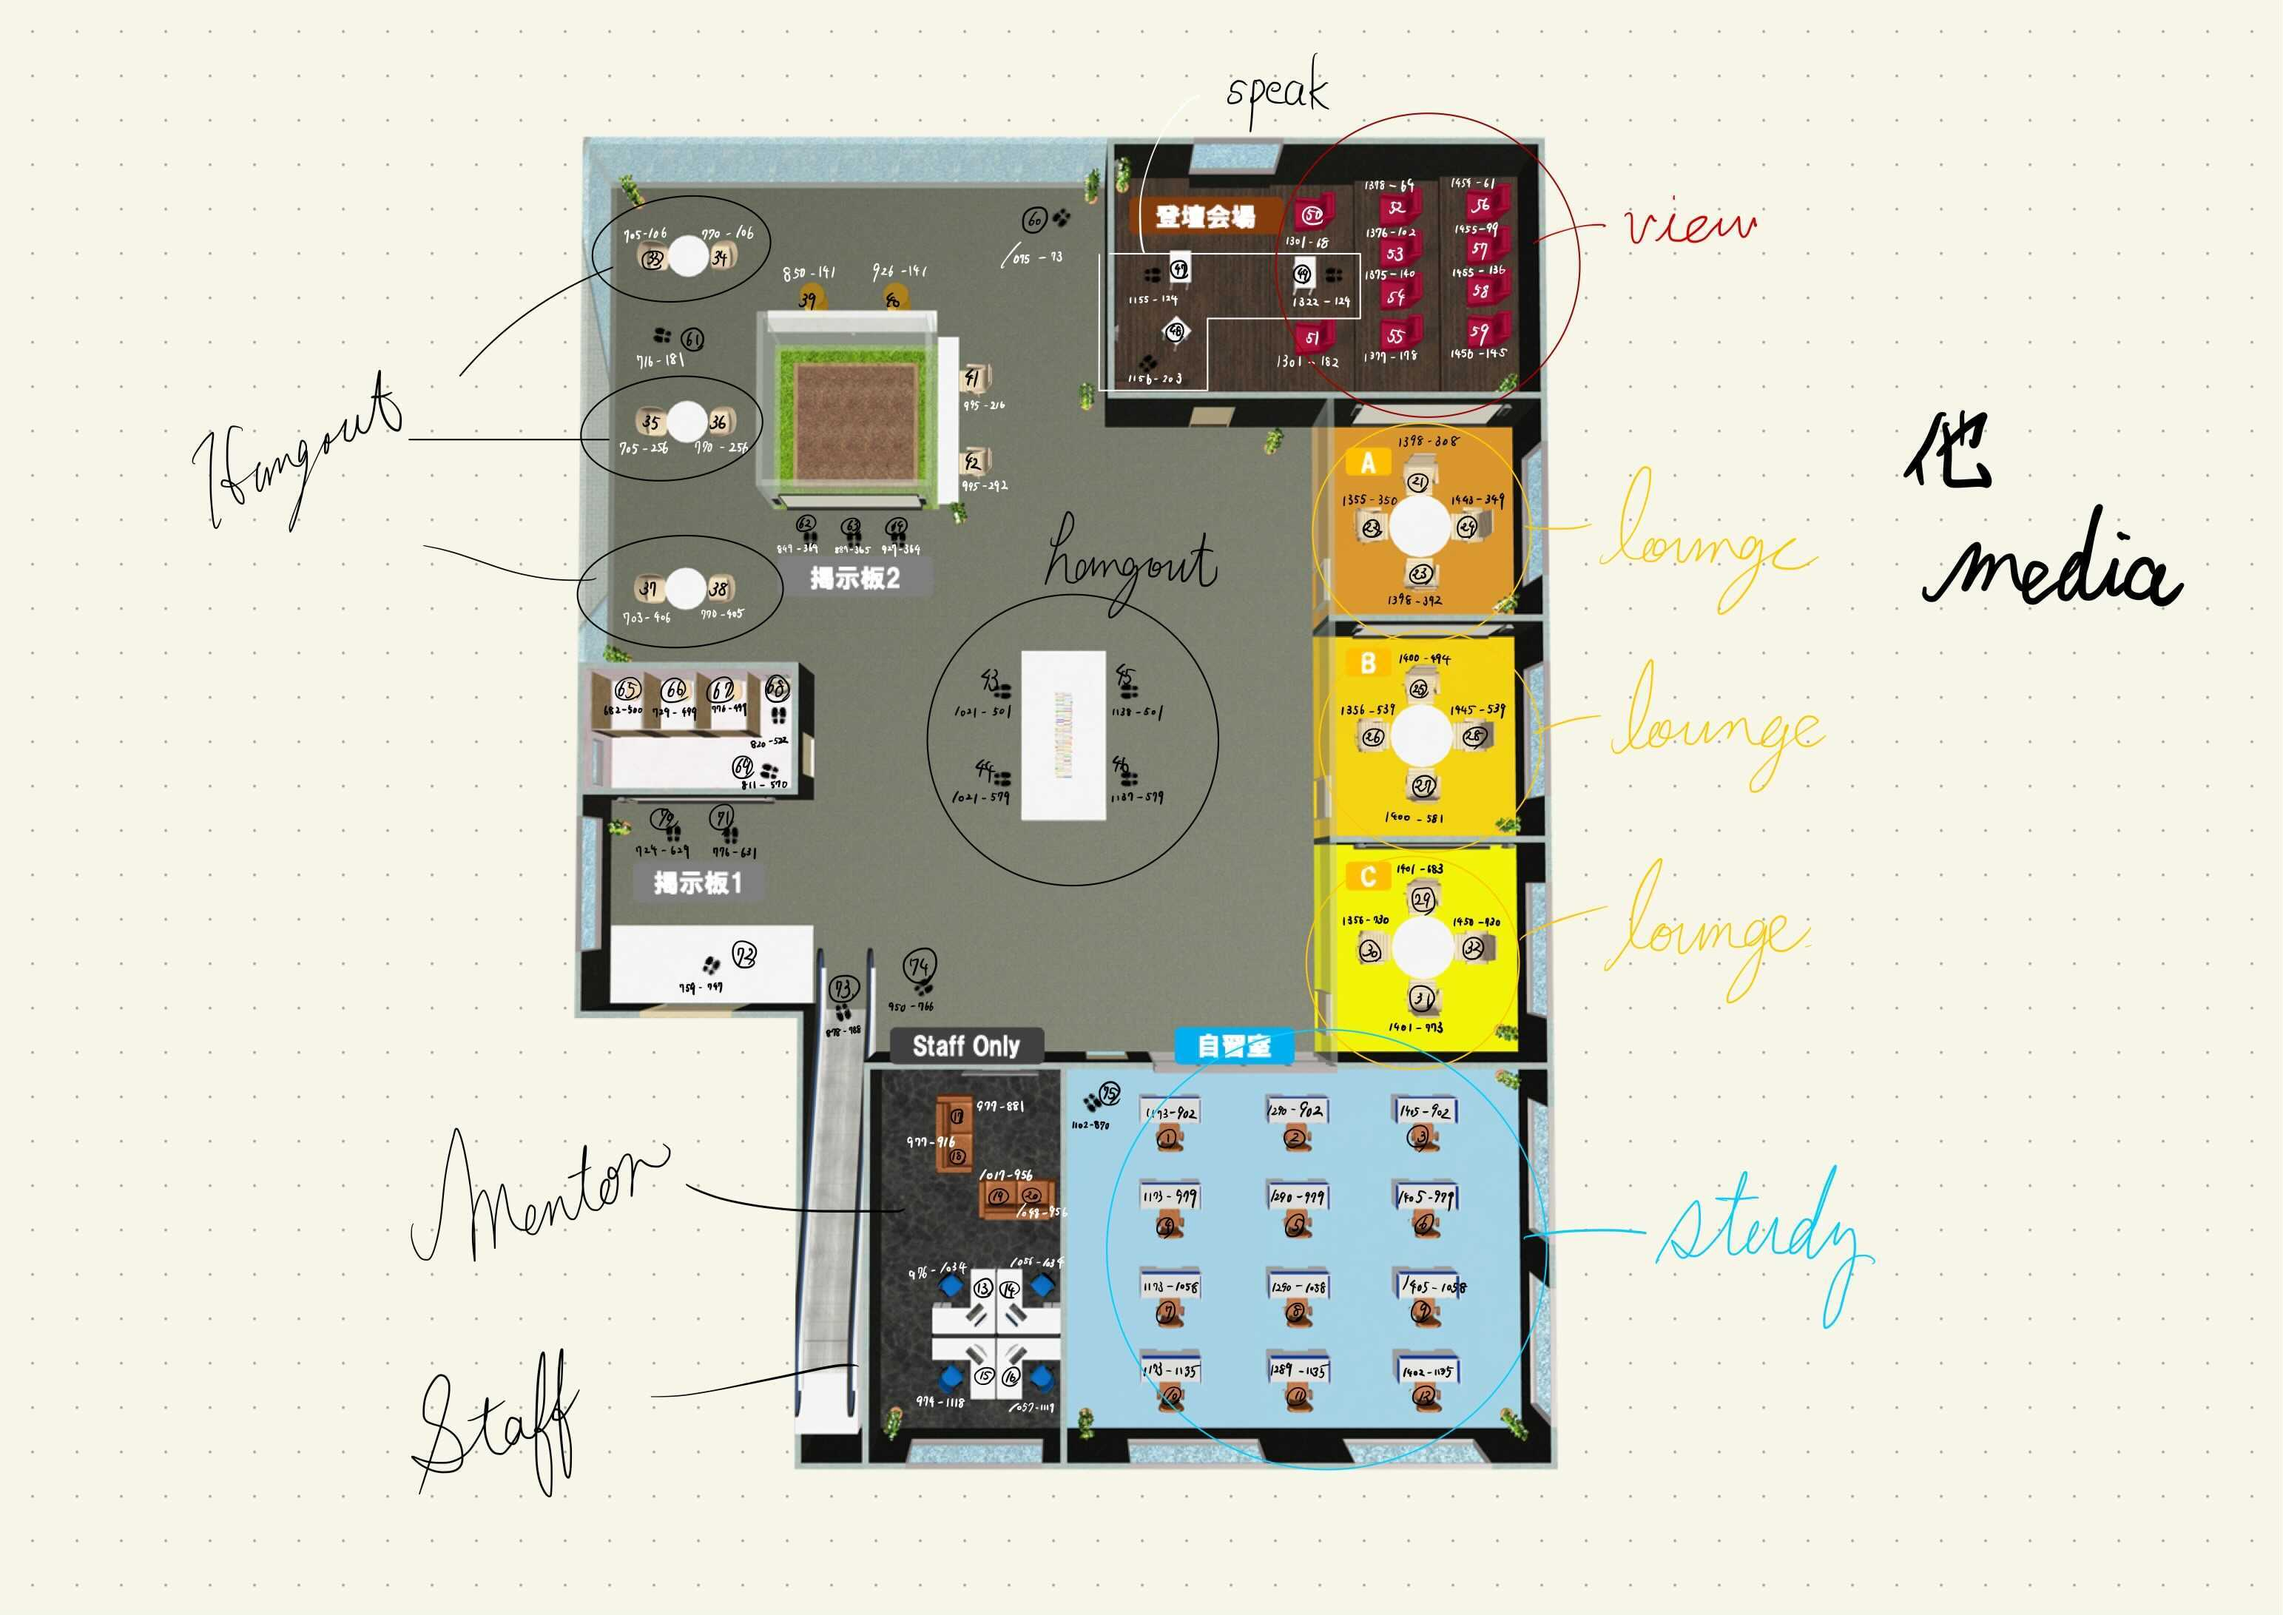
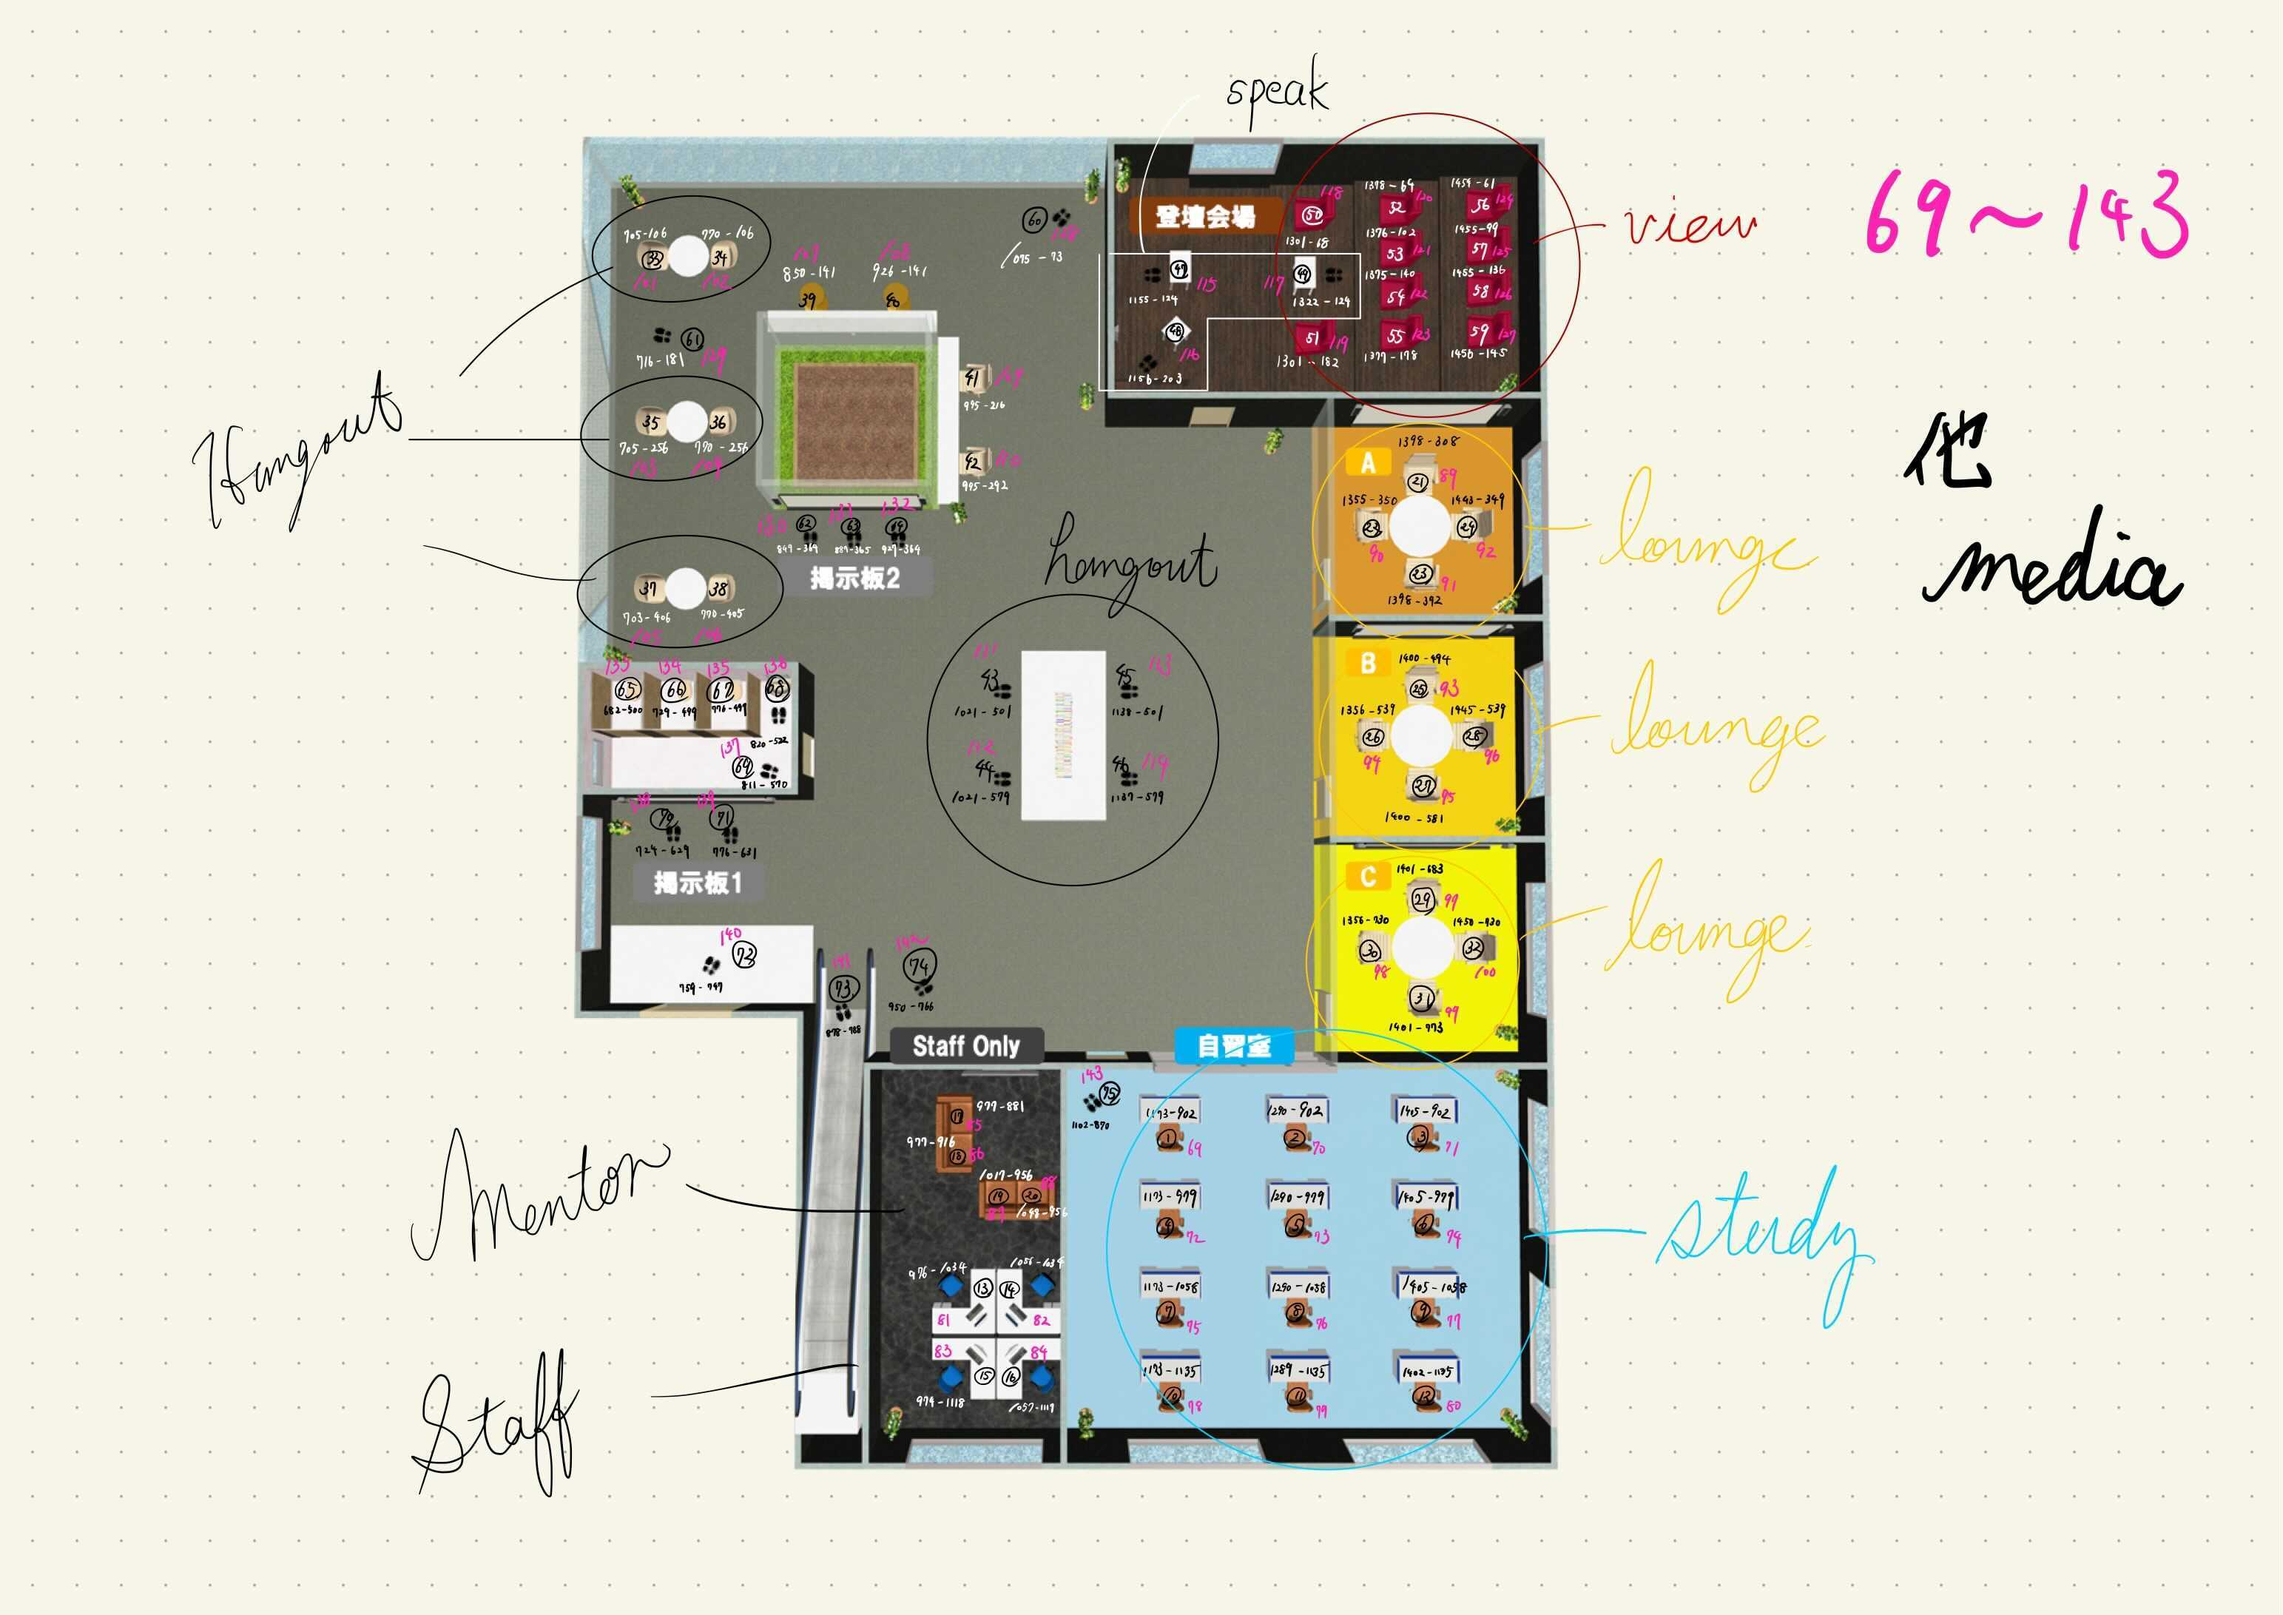
部屋データの修正

diff --git a/database/seeders/rooms/Room5Seeder.php b/database/seeders/rooms/Room5Seeder.php
@@ -1544,5 +1544,24 @@ class Room5Seeder extends Seeder
 
         // 座席196作成
         Seat::create(['section_id' => $created_section->id, 'name' => $seat['name'], 'size' => $seat['size'], 'position' => $seat['position'], 'role' => $seat['role']]);
+
+
+
+
+
+        // 区画41作成-その他
+        $created_section = Section::create(['room_id' => $created_room->id, 'name' => 'その他']);
+
+        //*** 座席197データ ***//
+        $seat = ['name' => '自習室上', 'size' => 30, 'position' => ['x' => 352, 'y' => 729], 'role' => 'media'];
+
+        // 座席197作成
+        Seat::create(['section_id' => $created_section->id, 'name' => $seat['name'], 'size' => $seat['size'], 'position' => $seat['position'], 'role' => $seat['role']]);
+
+        //*** 座席198データ ***//
+        $seat = ['name' => '自習室下', 'size' => 30, 'position' => ['x' => 344, 'y' => 1035], 'role' => 'media'];
+
+        // 座席198作成
+        Seat::create(['section_id' => $created_section->id, 'name' => $seat['name'], 'size' => $seat['size'], 'position' => $seat['position'], 'role' => $seat['role']]);
     }
 }

diff --git a/database/seeders/rooms/Room3Seeder.php b/database/seeders/rooms/Room3Seeder.php
@@ -657,7 +657,7 @@ class Room3Seeder extends Seeder
         $created_section = Section::create(['room_id' => $created_room->id, 'name' => 'その他']);
 
         //*** 座席76データ ***//
-        $seat = ['name' => '自習室下', 'size' => 30, 'position' => ['x' => 878, 'y' => 788], 'role' => 'media'];
+        $seat = ['name' => '自習室下', 'size' => 30, 'position' => ['x' => 750, 'y' => 1118], 'role' => 'media'];
 
         // 座席76作成
         Seat::create(['section_id' => $created_section->id, 'name' => $seat['name'], 'size' => $seat['size'], 'position' => $seat['position'], 'role' => $seat['role']]);
